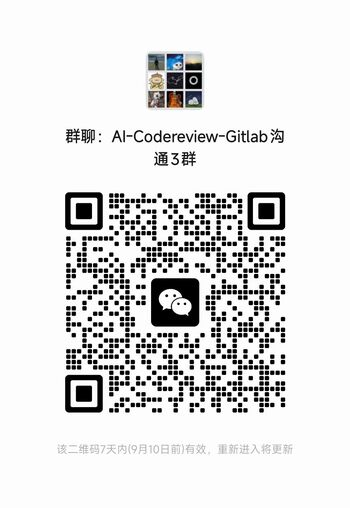
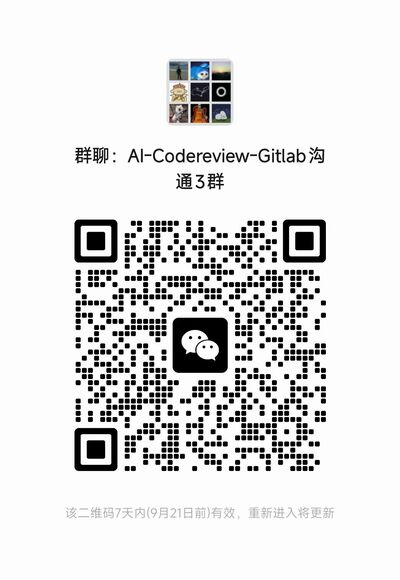
update wechat qrcode

diff --git a/README.md b/README.md
@@ -164,7 +164,11 @@ streamlit run ui.py --server.port=5002 --server.address=0.0.0.0
 
 ### 方案三：使用SaaS版
 
-无需安装，注册账号即可使用。访问站点[AI Code Review SaaS](https://cr.mzfuture.com) 获取详情。
+- 无需安装，注册账号即可使用。
+
+- 支持Gitlab、Gitee和Github三个平台的项目。
+
+- 访问站点 [https://cr.mzfuture.com](https://cr.mzfuture.com) 使用。
 
 ## 其它
 
